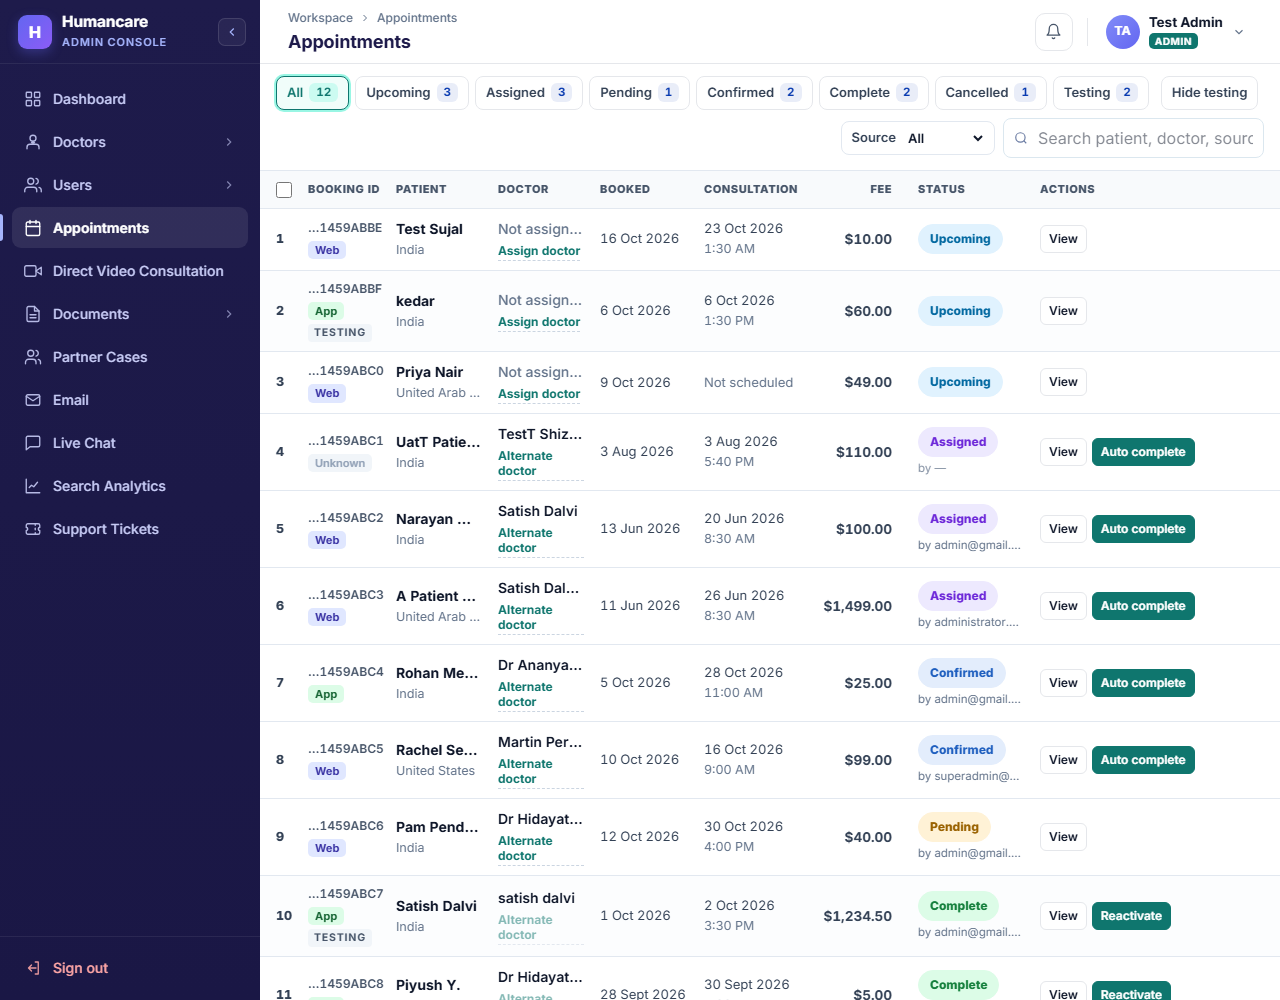
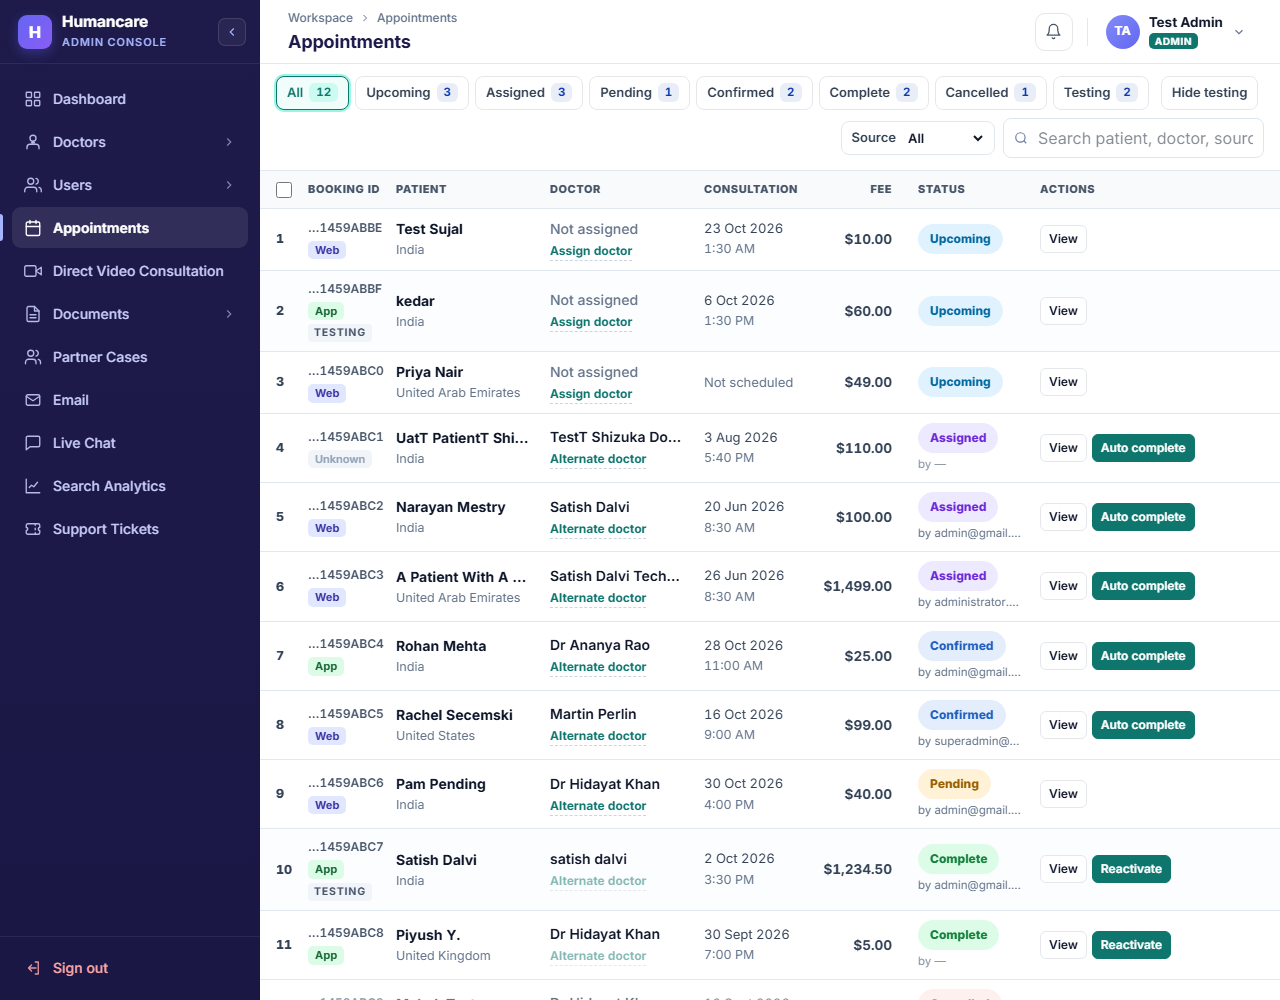
Appointments: hide Booked first on narrow windows, keep Source page down to 1024px
Table area under 1180px: the Booked column goes (the Consultation column still shows the visit date). Source page stays
visible until the table area is under 1024px, and in the one-card-per-booking layout (under 1000px) both columns show.
Layout checks, the Appointments browser test and the screenshots (docs/ui-after/booking-source/) follow the new rule.

diff --git a/frontend/src/pages/admin/appointments/BookingsTable.jsx b/frontend/src/pages/admin/appointments/BookingsTable.jsx
@@ -209,7 +209,7 @@ export default function BookingsTable({ rows, page, actions, selection, bulk, is
             <col />
             <col />
             <col className="adp-bk-c-src" />
-            <col className="adp-bk-col-booked" />
+            <col className="adp-bk-col-booked adp-bk-c-booked" />
             <col className="adp-bk-col-consult" />
             <col className="adp-bk-col-fee" />
             <col className="adp-bk-col-status" />
@@ -224,7 +224,7 @@ export default function BookingsTable({ rows, page, actions, selection, bulk, is
               <th>Patient</th>
               <th>Doctor</th>
               <th className="adp-bk-c-src">Source page</th>
-              <th>Booked</th>
+              <th className="adp-bk-c-booked">Booked</th>
               <th>Consultation</th>
               <th className="adp-bk-fee">Fee</th>
               <th className="adp-bk-status">Status</th>
@@ -264,7 +264,7 @@ export default function BookingsTable({ rows, page, actions, selection, bulk, is
                   <td data-label="Source page" className="adp-bk-cut adp-bk-c-src">
                     <SourcePageCell row={row} />
                   </td>
-                  <td data-label="Booked" className="adp-bk-nowrap adp-bk-date">{formatBookedOn(row.bookedAt)}</td>
+                  <td data-label="Booked" className="adp-bk-nowrap adp-bk-date adp-bk-c-booked">{formatBookedOn(row.bookedAt)}</td>
                   <td data-label="Consultation" className="adp-bk-nowrap adp-bk-date">
                     {consultation ? (
                       <span className="adp-bk-when">

diff --git a/frontend/src/pages/admin/AdminAppointments.css b/frontend/src/pages/admin/AdminAppointments.css
@@ -2216,8 +2216,14 @@ a.adp-bk-alt {
   line-height: 1;
 }
 
-/* Table area under 1180px: the Source page column goes. (The area is the page without the sidebar.) */
+/* Narrow table area (the page without the sidebar): the Booked column goes first, under 1180px; the Source page column
+   stays down to 1024px. */
 @container (max-width: 1179px) {
+  .adp-bk .adp-bk-c-booked {
+    display: none;
+  }
+}
+@container (max-width: 1023px) {
   .adp-bk .adp-bk-c-src {
     display: none;
   }
@@ -2225,7 +2231,8 @@ a.adp-bk-alt {
 
 /* Table area under 1000px (CARD_BELOW in bookingFormat.js): one card per booking. */
 @container (max-width: 999px) {
-  .adp-bk .adp-bk-c-src {
+  .adp-bk .adp-bk-c-src,
+  .adp-bk .adp-bk-c-booked {
     display: block;
   }
   .adp-bk,
